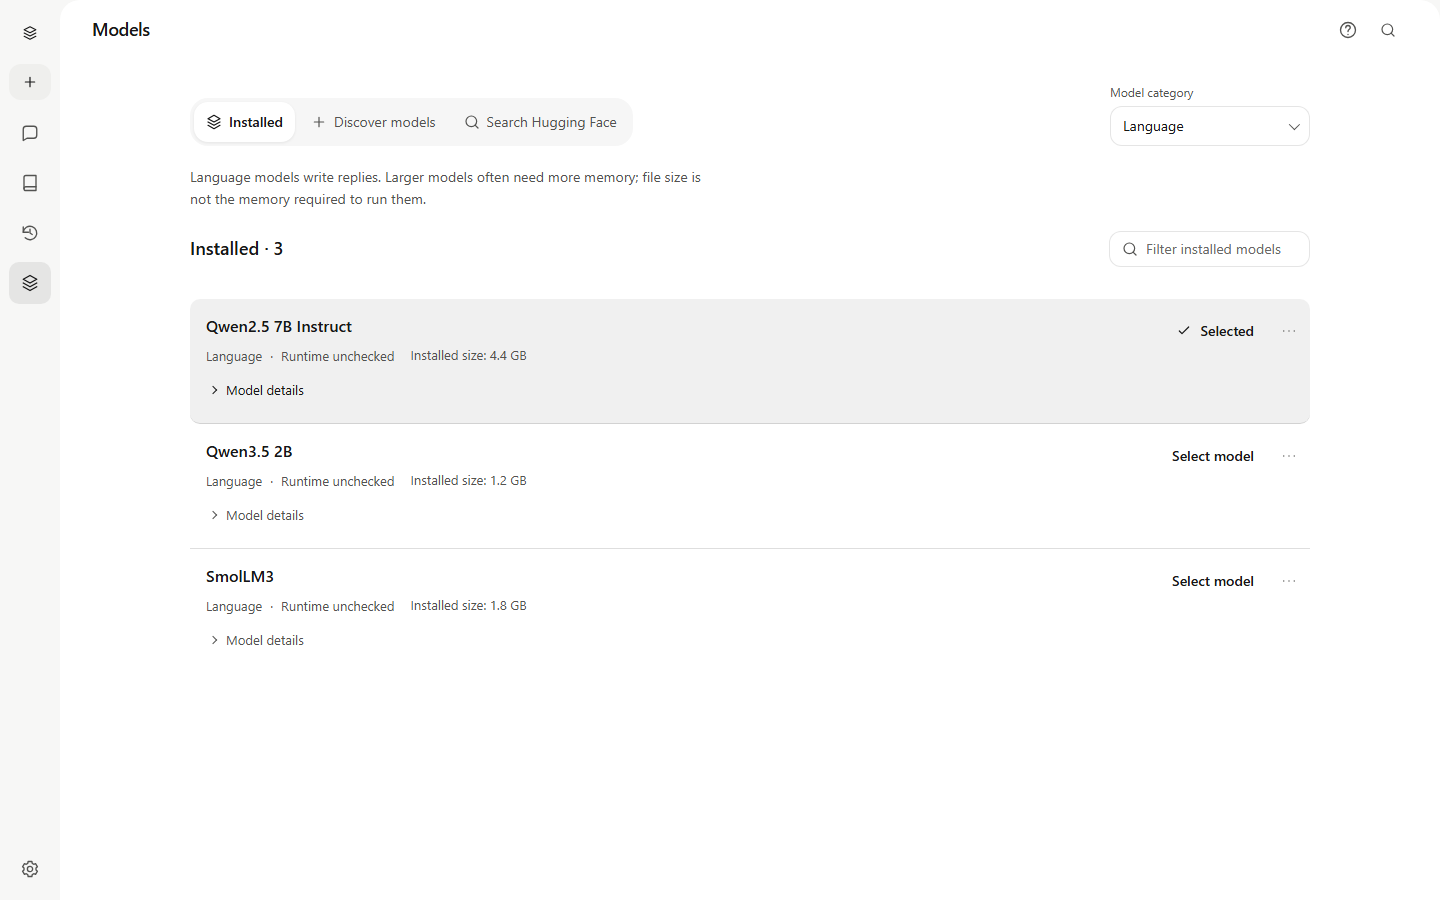
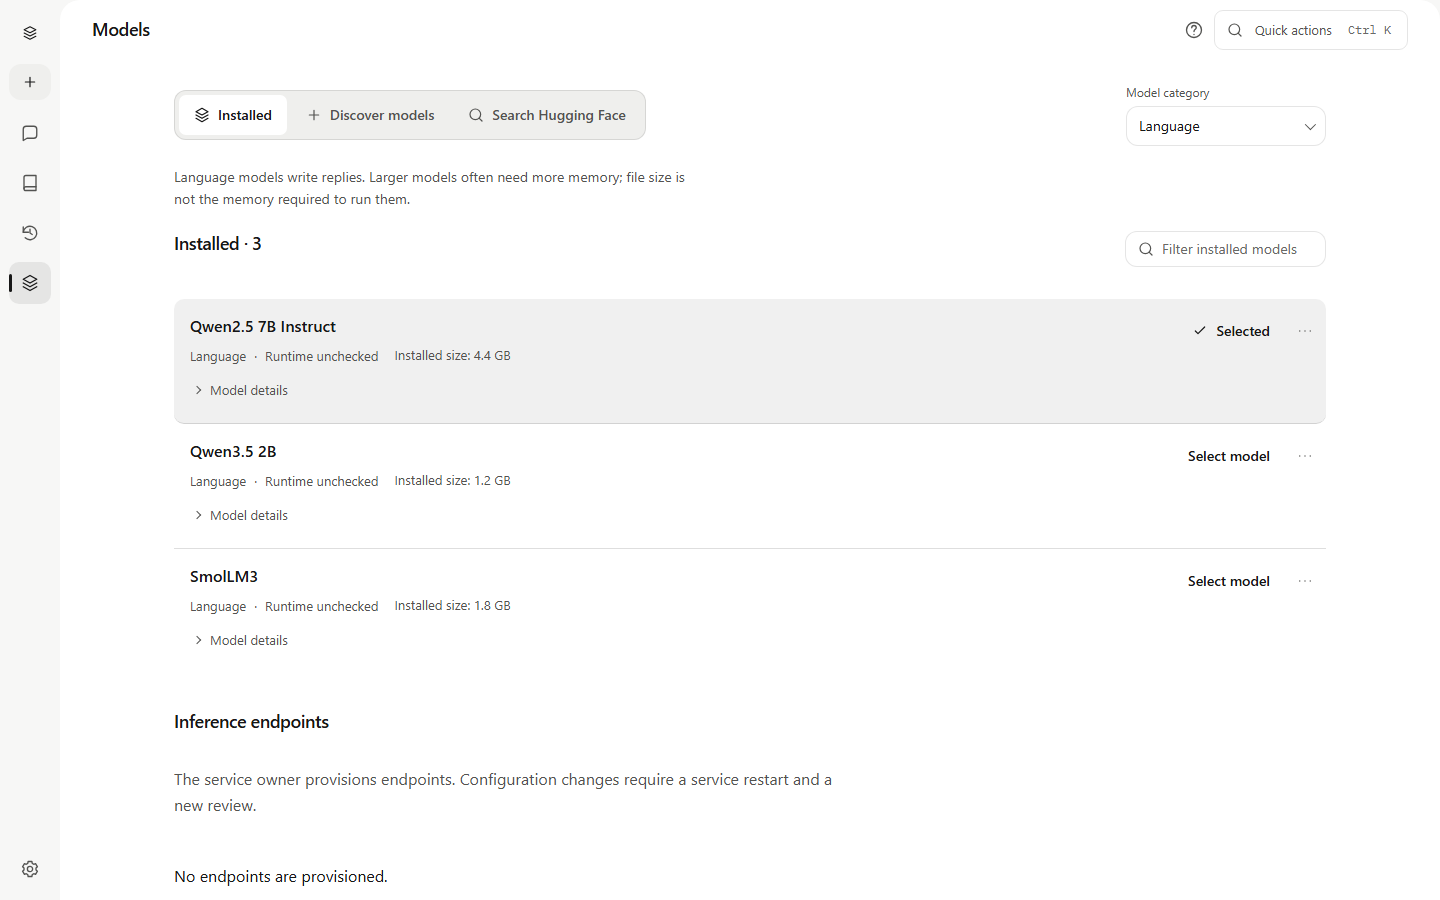
docs: refresh v0.4.33 release guidance and interface captures

diff --git a/apps/web/tests/talk-continuous-browser.spec.ts b/apps/web/tests/talk-continuous-browser.spec.ts
@@ -1,7 +1,7 @@
 import {expect, test, type Page} from '@playwright/test';
 import {canonicalTalkFixture} from './fixtures/canonical-talk';
 import {resolve} from 'node:path';
-import {readFile} from 'node:fs/promises';
+import {readFile, mkdir} from 'node:fs/promises';
 import {createHash} from 'node:crypto';
 
 async function continuousFixture(page: Page, echoCancellation: boolean | 'all' = true, noiseSuppression = true) {
@@ -31,6 +31,23 @@ async function continuousFixture(page: Page, echoCancellation: boolean | 'all' =
   await expect(page.locator('[data-capture-phase=monitoring]')).toHaveCount(1);
   return fixture;
 }
+
+for (const theme of ['light','dark']) test(`capture documentation automatic Talk ${theme}`, async ({page}) => {
+  test.skip(!process.env.OFFGRID_DOC_CAPTURES, 'Opt-in documentation capture with synthetic microphone input.');
+  await page.setViewportSize({width:1440,height:900});
+  await page.emulateMedia({reducedMotion:'reduce'});
+  await continuousFixture(page);
+  await page.evaluate(theme => {document.documentElement.dataset.theme=theme;},theme);
+  const surface=page.locator('.talk-surface');
+  await expect(surface.locator('.talk-surface-copy [role=status]')).toHaveText('Listening');
+  await expect(surface.getByRole('button')).toHaveCount(1);
+  await expect(surface).toHaveCSS('opacity','1');
+  await page.evaluate(()=>document.fonts.ready);
+  await mkdir(resolve('../../build/documentation-captures'),{recursive:true});
+  await page.screenshot({path:resolve(`../../build/documentation-captures/voice-listening-${theme}.png`),animations:'disabled'});
+  await page.keyboard.press('Escape');
+  await expect(surface).toHaveCount(0);
+});
 
 for (const theme of ['light','dark']) for (const viewport of [{width:630,height:790},{width:360,height:640},{width:360,height:320}]) {
   test(`Talk controls stay separate with one status at ${viewport.width}x${viewport.height} ${theme}`, async ({page}) => {

diff --git a/apps/web/tests/documentation-captures.spec.ts b/apps/web/tests/documentation-captures.spec.ts
@@ -8,6 +8,9 @@ for (const theme of ['light', 'dark']) test(`capture documentation workspace (${
   test.skip(!process.env.OFFGRID_DOC_CAPTURES, 'Set OFFGRID_DOC_CAPTURES=1 to refresh documentation images.');
   await page.setViewportSize({ width: 1440, height: 900 });
   await craftFixture(page, 'en', theme);
+  await page.route('**/api/v2/inference-endpoints', r => r.fulfill({json: {
+    configured: false, policy_state: 'not_configured', policy_revision: '', items: [],
+  }}));
   await page.route('**/api/v2/system', r => r.fulfill({ json: {
     product: 'offgrid', version: 'documentation-preview', workspace_id: 'craft', api_version: 2,
     capabilities: ['task-first-agents-v2', 'agent-profiles-v1', 'session-files-v1',
@@ -64,6 +67,7 @@ for (const theme of ['light', 'dark']) test(`capture documentation workspace (${
   await page.screenshot({ path: resolve(output, 'agent-profiles.png'), animations: 'disabled' });
   await page.goto('/ui/#/models');
   await expect(page.getByRole('region', { name: 'Installed', exact: true })).toContainText('Qwen');
+  await expect(page.locator('.inference-endpoint-section .inline-error')).toHaveCount(0);
   await page.screenshot({ path: resolve(output, 'models-installed.png'), animations: 'disabled' });
   await page.locator('.model-library-navigation').getByRole('button', { name: 'Discover models', exact: true }).click();
   await expect(page.locator('.catalog-card')).toHaveCount(3);

diff --git a/README.md b/README.md
@@ -9,11 +9,11 @@ knowledge indexes, users, and run history on storage you control.
 
 *Chat with a purpose: a demonstration task with sample file and command receipts.*
 
-[Download OffGrid v0.4.32 (unsigned preview)](https://github.com/takuphilchan/offgrid-llm/releases/tag/v0.4.32) ·
+[Download OffGrid v0.4.33 (unsigned)](https://github.com/takuphilchan/offgrid-llm/releases/tag/v0.4.33) ·
 [Quickstart](docs/setup/quickstart.md) · [Interface tour](docs/guides/interface-tour.md)
 
-**Interface preview:** the images below show the development checkout captured
-on 16 November 2026, not the published v0.4.32 interface. Conversations and
+**Interface captures:** the images below show the v0.4.33 renderer captured
+on 25 November 2026. Conversations and
 library entries are demonstration data. [Capture details](docs/images/README.md).
 
 The project is being hardened from a prototype into a dependable local tool.
@@ -39,13 +39,13 @@ For help and responsible disclosure, see [Support](SUPPORT.md) and
 ## Desktop download
 
 The current GitHub Latest download for Windows, macOS and Linux is
-[OffGrid v0.4.32 (unsigned preview)](https://github.com/takuphilchan/offgrid-llm/releases/tag/v0.4.32).
+[OffGrid v0.4.33 (unsigned)](https://github.com/takuphilchan/offgrid-llm/releases/tag/v0.4.33).
 Windows packages are unsigned; macOS apps are not Developer ID signed or
 notarized. Checksums verify downloaded bytes, not publisher trust. Read the
 release's OS trust guidance before installing.
 [All published versions](https://github.com/takuphilchan/offgrid-llm/releases)
-remain available; the development preview pictured here is separate from those
-release downloads.
+remain available. The images use isolated demonstration data, not a personal
+workspace.
 Windows users should choose the **setup.exe** download. See the
 [platform and architecture guide](docs/setup/installation.md#download-and-verify-a-release)
 for the matching package and checksum instructions. Desktop includes the local
@@ -101,16 +101,16 @@ agent profile.
 
 Run commands in a terminal tab alongside your saved work.
 
-![OffGrid development preview terminal displaying actual packaged CLI help in an isolated Demo drive](docs/images/desktop-terminal.png)
+![OffGrid v0.4.33 terminal displaying actual packaged CLI help in an isolated Demo drive](docs/images/desktop-terminal.png)
 
 ### Speak naturally
 
 Open **Talk** for the full workspace listening view. With the required local speech
 models and runtimes installed, automatic turn detection lets you finish speaking
 before OffGrid sends your request. Text and voice share the same conversation;
-the microphone and stop controls stay within reach.
+automatic listening keeps a centered Stop Talk control within reach.
 
-![OffGrid full workspace voice view in its Listening state, with microphone and stop controls](docs/images/voice-listening-light.png)
+![OffGrid full workspace voice view in its Listening state, with its centered Stop Talk control](docs/images/voice-listening-light.png)
 
 This is a demonstration of the listening interface using simulated microphone
 input. See [voice setup](docs/guides/voice.md) for requirements and limitations.
@@ -147,7 +147,7 @@ separately from document and speech capabilities.
 The [illustrated tour](docs/guides/interface-tour.md) explains the current
 navigation, document reader, model setup, agents, voice, and settings. These are
 real renderer captures with isolated sample data. The terminal runs the actual
-packaged preview CLI; the GIF is a screenshot slideshow, not an inference-speed
+packaged v0.4.33 CLI; the GIF is a screenshot slideshow, not an inference-speed
 demonstration. [Provenance and regeneration](docs/images/README.md).
 
 ## Community
@@ -162,7 +162,7 @@ should still be reported through [GitHub Issues](https://github.com/takuphilchan
 Use the versioned stable image for a repeatable installation:
 
 ```bash
-docker pull takuphilchan/offgrid-llm:0.4.32
+docker pull takuphilchan/offgrid-llm:0.4.33
 
 docker run -d \
   --name offgrid \
@@ -173,7 +173,7 @@ docker run -d \
   -p 127.0.0.1:11611:11611 \
   -v offgrid-models:/var/lib/offgrid/models \
   -v offgrid-data:/var/lib/offgrid/data \
-  takuphilchan/offgrid-llm:0.4.32
+  takuphilchan/offgrid-llm:0.4.33
 ```
 
 Open <http://127.0.0.1:11611/ui/>. The named volumes survive container
@@ -189,11 +189,13 @@ docker exec -it offgrid offgrid download phi-3.5-mini-instruct
 docker logs -f offgrid
 ```
 
-Stable releases publish `latest`, full semantic versions, `sha-*` tags,
-provenance, SBOMs, and AMD64/ARM64 CPU manifests. NVIDIA images use the separate
-`0.4.32-gpu` tag (Linux AMD64). The `edge` tag is for development, not a stable
+Container releases publish full semantic versions, `sha-*` tags,
+provenance, SBOMs, and AMD64/ARM64 CPU manifests. GitHub Latest promotion does
+not move Docker aliases: use the explicit `0.4.33` and `0.4.33-gpu` tags for this
+release; `latest` and `latest-gpu` still point to the previous images. The NVIDIA
+image supports Linux AMD64. The `edge` tag is for development, not a stable
 upgrade channel. See [Docker deployment](docs/setup/docker.md) and the
-[v0.4.32 release notes](docs/releases/release-notes-v0.4.32.md).
+[v0.4.33 release notes](docs/releases/release-notes-v0.4.33.md).
 
 ## Build and run from source
 

diff --git a/docs/images/README.md b/docs/images/README.md
@@ -1,8 +1,8 @@
 # Current interface images
 
-Captured **16 November 2026** for the [README](../../README.md) and
-[workspace tour](../guides/interface-tour.md). These images show the development
-preview, not the published v0.4.32 release.
+Captured **25 November 2026** for the [README](../../README.md) and
+[workspace tour](../guides/interface-tour.md). These images show the v0.4.33 application source
+with isolated sample data.
 
 ## Provenance
 
@@ -17,11 +17,13 @@ preview, not the published v0.4.32 release.
 | Voice listening, light and dark | Real full workspace React voice view in headless Chromium at 1440 × 900, isolated speech capability and microphone fixtures; no real microphone, transcription or model inference |
 | Workspace GIF | Four screenshots, four seconds each; slideshow, not generation or execution footage |
 
-The source checkout was based on commit
-`9adc304fbab6a21b29f36c22f6d88e0d8bbe7dca` **with local development changes**.
-The terminal uses `0.4.31-preview.20261115174855379.g9adc304f`, whose packaged UI
[1 lines of base64/hex data omitted]
-The commit alone does not reproduce this modified checkout.
+The application source is tag `v0.4.33`, commit
+`19fa067a0ddea2447f9f302b4fddf4a693a3efe6`. Only capture tooling and documentation
+were modified for this refresh; application code was unchanged. The terminal
+uses the locally verified 0.4.33 release candidate with UI identity
[1 lines of base64/hex data omitted]
+The automatic Talk fixture uses a synthetic audio stream and simulated device
+settings; it does not test a physical microphone or echo cancellation.
 
 Conversations, model inventory, document entries, and agent profiles are synthetic
 demonstration data. No model inference, real document ingestion, tool workflow,
@@ -34,8 +36,8 @@ capture folder. Its output is real, not substituted text. Other screenshots are
 full renderer viewports. No controls, colors, or status labels were retouched.
 Renderer screenshot animations were disabled for a stable frame.
 
-[The capture manifest](captures-2026-11-16.json) records asset sizes and SHA-256
-hashes. Nine superseded assets were copied and hash-verified in
+[The capture manifest](captures-2026-11-25.json) records asset sizes and SHA-256
+hashes. Eighteen superseded assets were copied and hash-verified in
 [the historical archive](old-images/README.md) before replacement.
 
 ## Refresh the renderer captures
@@ -65,7 +67,7 @@ covered separately by desktop tests.
 
 ## Refresh the native terminal captures
 
-Use a locally packaged Windows preview with `preview.json` beside its
+Use a locally packaged Windows preview with `candidate.json` or `preview.json` beside its
 `win-unpacked` folder. From the repository root:
 
 ```powershell
@@ -88,14 +90,15 @@ From the repository root in PowerShell:
 ```powershell
 $env:OFFGRID_DOC_CAPTURES = '1'
 $env:OFFGRID_FIXTURE_PORT = '5197'
-npm --prefix apps/web run test:e2e -- voice-playback.spec.ts -g 'capture documentation full workspace voice' --workers=1
+npm --prefix apps/web run test:e2e -- talk-continuous-browser.spec.ts -g 'capture documentation automatic Talk' --workers=1
 ```
 
 The output is `build/documentation-captures/voice-listening-light.png` and its
 dark variant. The static frame has animations disabled. The capture checks
 listening, replacing the main view, and returning to Chat. Separate voice tests
 cover motion and reduced-motion behavior. These images
-demonstrate the listening controls, not automatic turn-detection accuracy.
+demonstrate automatic listening with a centered Stop Talk control, not
+automatic turn-detection accuracy.
 
 ## Build the optional slideshow
 
@@ -120,3 +123,17 @@ node scripts/maintenance/check-docs.mjs
 
 The capture checks and visual review verify presentation, not release readiness
 or the quality of a model's answers.
+
+## Verification of this refresh
+
+On 25 November 2026, all five workspace/reader/quick-window capture scenarios
+and both automatic Talk capture scenarios passed. The hidden packaged v0.4.33
+terminal capture passed its visibility and read-only service checks. Visual
+review caught an outdated endpoint fixture; it was corrected to the documented
+empty endpoint response and both workspace captures passed again. All current
+assets and all eighteen archived assets have SHA-256 manifests. The four GIF
+frames use the reviewed Chat, Models, Library and agent-profile captures.
+
+TypeScript checking, the seven documentation-checker tests, the maintained-doc
+scan, application/developer layout checks and source-size checks passed. These
+fixture checks do not establish inference or physical microphone quality.

diff --git a/docs/releases/release-notes-v0.4.33.md b/docs/releases/release-notes-v0.4.33.md
@@ -1,10 +1,19 @@
 # OffGrid v0.4.33
 
-Unsigned preview — qualification scope and known limitations are listed below.
+Unsigned release — qualification scope and known limitations are listed below.
 
-This candidate continues the **unsigned preview** channel. Windows publisher
+This release uses the verified **unsigned** artifacts built by the preview workflow. Windows publisher
 signing and macOS Developer ID signing/notarization are not established by local
 builds. Published artifacts must include their trust reports and SHA-256 manifest.
+
+## Release verification
+
+Published as the regular latest release at the owner's request using the existing v0.4.33 tag and verified artifacts. The packages remain unsigned.
+
+- [Exact-source CI](https://github.com/takuphilchan/offgrid-llm/actions/runs/45483685216): all 14 jobs passed; browser integration reported 3,002 passed and 76 skipped.
+- [Release build](https://github.com/takuphilchan/offgrid-llm/actions/runs/45494171306): all 22 jobs passed, including Windows, macOS, Linux and CPU/CUDA containers.
+- All 16 required assets were verified against their published SHA-256 digests; the checksum manifest is attached.
+- The same source was installed locally on Windows, all 1,254 candidate payload files matched, and the running service health check passed.
 
 ## Changes
 
@@ -49,10 +58,9 @@ These checks do not replace exact-release-source CI and artifact verification.
 
 The November 24 integrated working-tree check passed the full Windows Go suite,
 292 desktop tests (4 opt-in skips) and 238 computer companion tests (6 opt-in
-skips). The current local Windows candidate installed successfully and its 73
+skips). That earlier local Windows candidate installed successfully and its 73
 checked payload files matched. See [voice and UI correction evidence](../quality/evidence/voice-barge-in-and-auto-ui-2026-11-24.md)
-for test scope, installed-source receipts and known limits. Release automation
-must still qualify and rebuild the immutable tagged source on supported runners.
+for test scope, installed-source receipts and known limits. The subsequent exact-source release qualification is recorded above.
 
 The 512 MiB browser upload requirement is not qualified: the prepared Chromium
 transport patch has not been built or integrated. Stock attached Chrome/Edge
@@ -72,6 +80,5 @@ It retains uncertain receipts, copied artifacts and reservations instead of
 claiming cleanup, and restart does not authorize replay. Tests of those refusal
 boundaries do not qualify successful macOS cleanup or close the roadmap gates.
 
-Before publication, qualify the exact candidate source and produced packages,
-resolve release blockers and record the actual results. No all-platform,
-all-model, complete-transformation or signed-release claim is made here.
+The release checks above do not close the remaining qualification gaps. No
+all-platform, all-model, complete-transformation or signed-release claim is made here.

diff --git a/docs/setup/docker.md b/docs/setup/docker.md
@@ -18,7 +18,7 @@ Bash continuation syntax; in PowerShell enter `docker run` on one line or use
 PowerShell backtick continuations.
 
 ```bash
-docker pull takuphilchan/offgrid-llm:0.4.25
+docker pull takuphilchan/offgrid-llm:0.4.33
 docker run -d \
   --name offgrid \
   --init \
@@ -28,7 +28,7 @@ docker run -d \
   -p 127.0.0.1:11611:11611 \
   -v offgrid-models:/var/lib/offgrid/models \
   -v offgrid-data:/var/lib/offgrid/data \
-  takuphilchan/offgrid-llm:0.4.25
+  takuphilchan/offgrid-llm:0.4.33
 ```
 
 Open <http://localhost:11611/ui/> and download a model from the Models page, or
@@ -47,12 +47,16 @@ and TLS for remote access.
 | Tag | Meaning |
 | --- | --- |
 | `edge` | Current development image; update deliberately |
-| `latest` | Moving alias for the latest published stable CPU release |
-| `<version>` | Versioned release, for example `0.4.25` |
+| `latest` | CPU alias; not advanced by the v0.4.33 GitHub promotion |
+| `<version>` | Versioned release, for example `0.4.33` |
 | `<major>.<minor>` | Most recent patch in a stable minor release |
 | `sha-<commit>` | Image built from an exact source revision |
-| `latest-gpu` | Most recent stable NVIDIA release (Linux AMD64) |
+| `latest-gpu` | NVIDIA alias; not advanced by the v0.4.33 GitHub promotion |
 | `<version>-gpu` | Versioned NVIDIA release (Linux AMD64) |
+
+For v0.4.33, use `0.4.33` (AMD64/ARM64 CPU) or `0.4.33-gpu` (AMD64 NVIDIA).
+As verified on 25 November 2026, Docker `latest` and `latest-gpu` still reference
+the previous images; GitHub's Latest badge does not update those registry aliases.
 
 Pin a full version, or an image digest for content identity. `latest` and `edge`
 can move; pulling them is an update, not a reproducible specification. A stable
@@ -66,7 +70,7 @@ Clone the repository only when using its Compose definitions:
 git clone https://github.com/takuphilchan/offgrid-llm.git
 cd offgrid-llm/docker
 cp .env.example .env
-# Edit .env: set OFFGRID_VERSION=0.4.25 before pulling.
+# Edit .env: set OFFGRID_VERSION=0.4.33 before pulling.
 docker compose pull
 docker compose up -d
 ```

diff --git a/docs/guides/interface-tour.md b/docs/guides/interface-tour.md
@@ -1,9 +1,9 @@
 # OffGrid workspace tour
 
-This tour follows the development interface captured on **16 November 2026**.
+This tour follows the v0.4.33 interface captured on **25 November 2026**.
 The screenshots use isolated sample conversations, documents, models, and agent
 profiles. They show the real UI, with fixture responses rather than live model
-inference. The terminal captures run the actual packaged preview CLI.
+inference. The terminal captures run the actual packaged v0.4.33 CLI.
 Your installed release and connected service may expose different capabilities.
 See [image provenance](../images/README.md) for versions, scope, and regeneration.
 
@@ -94,7 +94,7 @@ responds to microphone levels and respects reduced motion. Leaving Talk restores
 the conversation and draft. Ordinary microphone dictation places text in the
 editor for review; Talk sends utterances after you finish speaking.
 
-![Full workspace Talk view with microphone and stop controls; simulated microphone input](../images/voice-listening-light.png)
+![Full workspace Talk view in automatic listening mode with a centered Stop Talk control; simulated microphone input](../images/voice-listening-light.png)
 
 Escape hides the quick window and stops microphone capture and playback. Hiding
 a window does not cancel accepted work; use its Stop control for that. Quit stops

diff --git a/docs/setup/installation.md b/docs/setup/installation.md
@@ -18,9 +18,9 @@ Check memory, storage, CPU instructions, and model requirements before downloadi
 
 Use the [official releases](https://github.com/takuphilchan/offgrid-llm/releases). Download the package and `checksums-vX.Y.Z.sha256` from the same release. Do not mix packages from different revisions to resolve a compatibility warning.
 
-The newest published version is [OffGrid v0.4.32](https://github.com/takuphilchan/offgrid-llm/releases/tag/v0.4.32).
-GitHub's **Latest** badge and `/releases/latest` also select 0.4.32. It remains
-an unsigned preview despite its placement as the latest release; Windows
+The newest published version is [OffGrid v0.4.33](https://github.com/takuphilchan/offgrid-llm/releases/tag/v0.4.33).
+GitHub's **Latest** badge and `/releases/latest` also select 0.4.33. It remains
+unsigned despite its placement as the latest regular release; Windows
 installers have no verified publisher signature and macOS apps are not
 Developer ID signed or notarized. Checksums verify file integrity, not publisher
 trust. Read the release notes and OS trust guidance before installing.

diff --git a/docs/images/old-images/README.md b/docs/images/old-images/README.md
@@ -3,6 +3,11 @@
 Keep these images for historical reference; use the current
 [interface tour](../../guides/interface-tour.md) for product images.
 
+## Replaced on 25 November 2026
+
+[pre-2026-11-25](pre-2026-11-25/) preserves all eighteen November 16 assets.
+[checksums.json](pre-2026-11-25/checksums.json) records the original verified hashes.
+
 ## Replaced on 16 November 2026
 
 [pre-2026-11-16](pre-2026-11-16/) preserves the previous eight PNG screenshots
